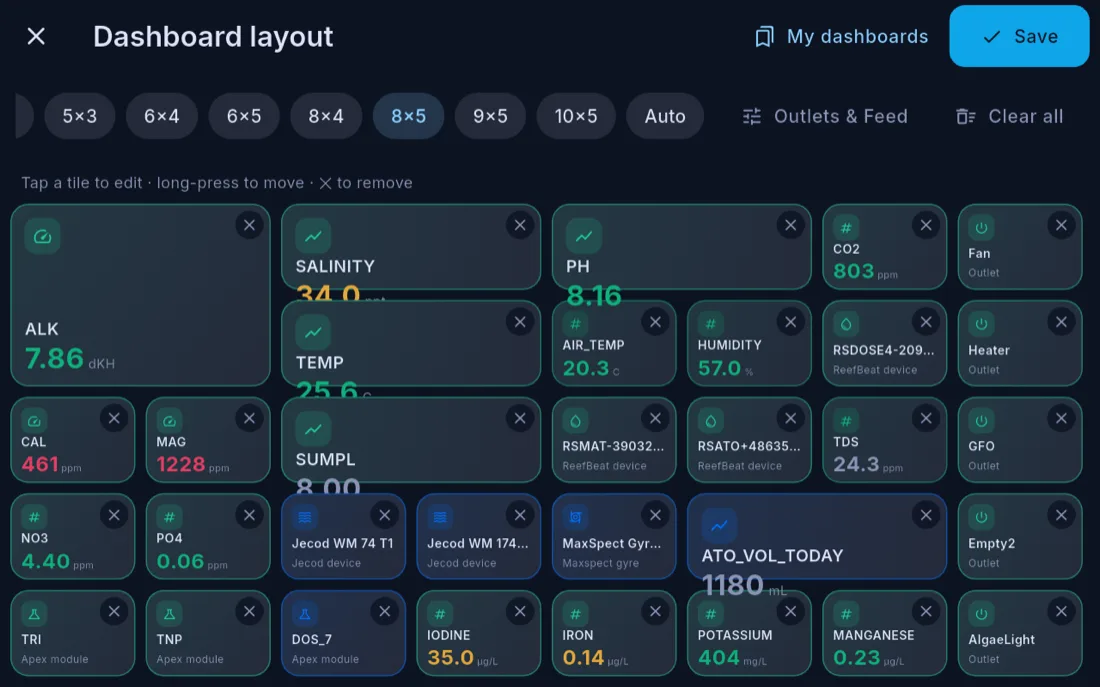
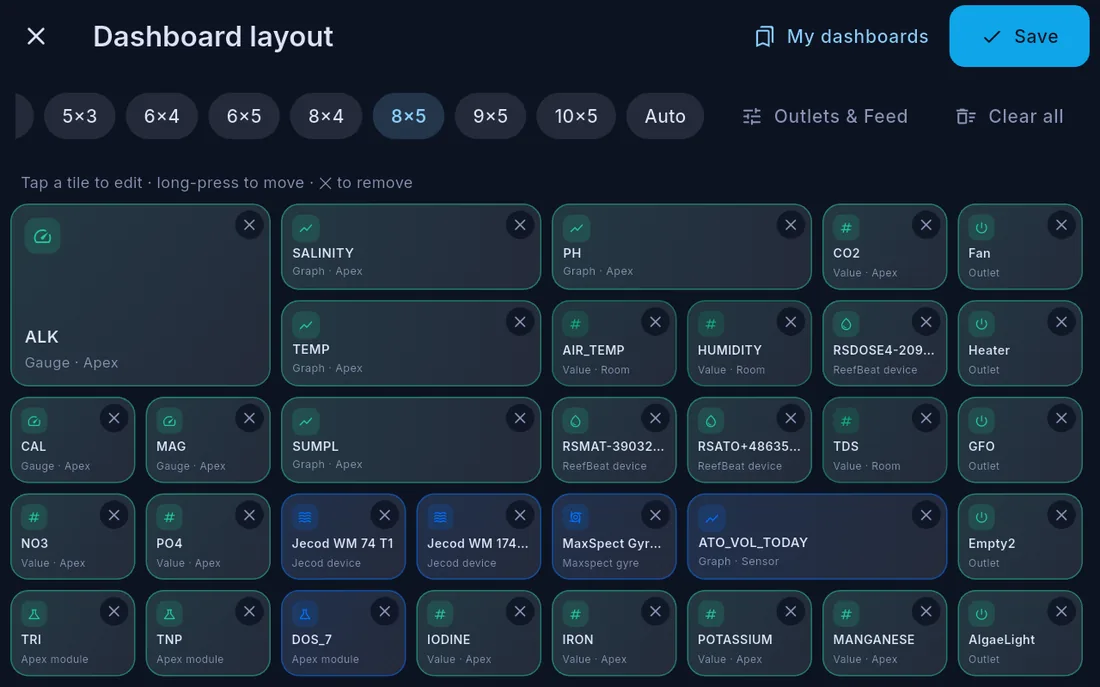
The editor screenshot showed a bug we had already fixed, and values we had already removed
`max-dashboard-editor.webp` was two changes stale at once. It still showed
the live readings that were removed from editor tiles on 2026-09-09 — the
caption beside it already said "Each shows its type and source, not a
reading" — and it showed the 2×1 overflow those tiles had, with SALINITY,
PH, TEMP and SUMPL painting their subtitle below the card.

Recaptured from the E10 on Cora Max 0.28.41+395, same tank, same 8×5
shape, same framing. Measured: ~230 stray text pixels beneath each of the
five 2×1 cards in the old shot, zero in the new one.

The stamp moves 0.28.38 → 0.28.41 on all 50 pages because it is derived
from the pubspec rather than typed — which is the whole reason it was made
derived.

50 pages · 30/30 self-tests · /help stays NOINDEX.

diff --git a/help/max-settings.html b/help/max-settings.html
@@ -187,7 +187,7 @@
 <p>Cora Max keeps itself up to date. New versions download in the background and install themselves, and you are told what changed. If a version has just arrived, the prompt appears on screen. There is nothing you need to do to stay current. See <strong><a href="/help/max-updates">Keeping Cora Max updated</a></strong>.</p>
 <aside class="cal cal-note"><p class="cal-t">Settings live in two places, on purpose</p><p>Anything about <em>this screen</em> — Wi-Fi, brightness, sound — is here. Anything about your <em>account</em> — tanks, devices, dosing products, plans — belongs to your account and is easier to change in Cora Mobile, where it applies to every screen at once.</p></aside>
       <nav class="pn" aria-label="Continue reading"><a class="pn-p" href="/help/max-voice"><span>Previous</span><b>Talking to Cora</b></a><a class="pn-n" href="/help/max-updates"><span>Next</span><b>Updates and recovery</b></a></nav>
-      <p class="stamp">Written for Cora Max 0.28.38 and Cora Mobile 0.5.55. Last checked 2026-09-09.</p>
+      <p class="stamp">Written for Cora Max 0.28.41 and Cora Mobile 0.5.55. Last checked 2026-09-09.</p>
       <p class="ask">Still stuck? Email <a href="mailto:cora@coraiq.tech">cora@coraiq.tech</a> and we'll help.</p>
     </article>
   </main>

diff --git a/help/mobile-metric-detail.html b/help/mobile-metric-detail.html
@@ -189,7 +189,7 @@
 <p>Enter what your test kit says. Hand-logged readings are first-class: they get their own source and timestamp, they appear on the chart, they feed Reef Buddy, and they are what Cora compares your equipment against.</p>
 <aside class="cal cal-note"><p class="cal-t">Cora checks entries that look implausible</p><p>If a value is far from what the tank has been running, you are asked to confirm it before it is saved. This catches a decimal point in the wrong place or a reading entered against the wrong parameter. Confirm it and the reading is stored normally.</p></aside>
       <nav class="pn" aria-label="Continue reading"><a class="pn-p" href="/help/mobile-widgets"><span>Previous</span><b>Widget reference</b></a><a class="pn-n" href="/help/mobile-devices"><span>Next</span><b>Adding, editing and removing devices</b></a></nav>
-      <p class="stamp">Written for Cora Max 0.28.38 and Cora Mobile 0.5.55. Last checked 2026-09-09.</p>
+      <p class="stamp">Written for Cora Max 0.28.41 and Cora Mobile 0.5.55. Last checked 2026-09-09.</p>
       <p class="ask">Still stuck? Email <a href="mailto:cora@coraiq.tech">cora@coraiq.tech</a> and we'll help.</p>
     </article>
   </main>

diff --git a/help/index.html b/help/index.html
@@ -182,7 +182,7 @@
 <h2 id="on-the-big-screen">On the big screen</h2>
 <ul><li><strong><a href="/help/max-reef-room">The Reef Room</a></strong> — every tank at once</li><li><strong><a href="/help/max-devices">Devices and device health</a></strong> — what Cora Max sees, and its own diagnostics</li><li><strong><a href="/help/max-intelligence">Reef Buddy and reports</a></strong> — the briefing and your lab work at the wall</li><li><strong><a href="/help/max-device-control">Controlling equipment from Cora Max</a></strong> — device pages at the wall</li><li><strong><a href="/help/max-activity">Activity on Cora Max</a></strong> — what was carried out, refused, or never confirmed</li><li><strong><a href="/help/max-updates">Updates and recovery</a></strong> — how the screen keeps itself current</li></ul>
       
-      <p class="stamp">Written for Cora Max 0.28.38 and Cora Mobile 0.5.55. Last checked 2026-09-09.</p>
+      <p class="stamp">Written for Cora Max 0.28.41 and Cora Mobile 0.5.55. Last checked 2026-09-09.</p>
       <p class="ask">Still stuck? Email <a href="mailto:cora@coraiq.tech">cora@coraiq.tech</a> and we'll help.</p>
     </article>
   </main>

diff --git a/help/mobile-devices.html b/help/mobile-devices.html
@@ -182,7 +182,7 @@
 <p>What you lose is the live link — and, where the device connected through a manufacturer account, the stored sign-in. Adding it back means signing in again.</p>
 <aside class="cal cal-tip"><p class="cal-t">Quieten a noisy device without removing it</p><p>If a device is working correctly but alerting too often, adjust its thresholds or notification settings — see <strong><a href="/help/mobile-alerts">Alerts and thresholds</a></strong>. That keeps the connection and the data while stopping the noise.</p></aside>
       <nav class="pn" aria-label="Continue reading"><a class="pn-p" href="/help/mobile-metric-detail"><span>Previous</span><b>Looking into a parameter</b></a><a class="pn-n" href="/help/mobile-connections"><span>Next</span><b>Connecting your equipment</b></a></nav>
-      <p class="stamp">Written for Cora Max 0.28.38 and Cora Mobile 0.5.55. Last checked 2026-09-09.</p>
+      <p class="stamp">Written for Cora Max 0.28.41 and Cora Mobile 0.5.55. Last checked 2026-09-09.</p>
       <p class="ask">Still stuck? Email <a href="mailto:cora@coraiq.tech">cora@coraiq.tech</a> and we'll help.</p>
     </article>
   </main>

diff --git a/help/mobile-sharing.html b/help/mobile-sharing.html
@@ -171,7 +171,7 @@
 <p><strong>Share</strong> hands the card to your phone's normal share sheet, so it can go anywhere your phone can send an image. Nothing leaves your account until you pick a destination.</p>
 <aside class="cal cal-note"><p class="cal-t">A snapshot is not access</p><p>Sharing a snapshot gives no one access to your account, your history or your equipment. To let someone look after the tank while you are away, use <a href="/help/mobile-vacation">Going away</a> instead, which produces a read-only page.</p></aside>
       <nav class="pn" aria-label="Continue reading"><a class="pn-p" href="/help/mobile-icp-health"><span>Previous</span><b>ICP and health reports</b></a><a class="pn-n" href="/help/mobile-vacation"><span>Next</span><b>Going away</b></a></nav>
-      <p class="stamp">Written for Cora Max 0.28.38 and Cora Mobile 0.5.55. Last checked 2026-09-09.</p>
+      <p class="stamp">Written for Cora Max 0.28.41 and Cora Mobile 0.5.55. Last checked 2026-09-09.</p>
       <p class="ask">Still stuck? Email <a href="mailto:cora@coraiq.tech">cora@coraiq.tech</a> and we'll help.</p>
     </article>
   </main>

diff --git a/help/mobile-alerts.html b/help/mobile-alerts.html
@@ -191,7 +191,7 @@
 <p>Open the rule in the <strong>Rules</strong> tab of the Alert Center and turn its <strong>enable switch</strong> off. The rule and its range are kept, so you can switch it back on without rebuilding it.</p>
 <aside class="cal cal-warning"><p class="cal-t">Quieten a parameter without deleting its range</p><p>Removing a threshold does not necessarily stop every assessment of that reading — default reference bands still colour the value and can still feed the briefing. Use the rule's enable switch.</p></aside>
       <nav class="pn" aria-label="Continue reading"><a class="pn-p" href="/help/mobile-consumables"><span>Previous</span><b>Consumables</b></a><a class="pn-n" href="/help/mobile-notifications"><span>Next</span><b>Notifications</b></a></nav>
-      <p class="stamp">Written for Cora Max 0.28.38 and Cora Mobile 0.5.55. Last checked 2026-09-09.</p>
+      <p class="stamp">Written for Cora Max 0.28.41 and Cora Mobile 0.5.55. Last checked 2026-09-09.</p>
       <p class="ask">Still stuck? Email <a href="mailto:cora@coraiq.tech">cora@coraiq.tech</a> and we'll help.</p>
     </article>
   </main>

diff --git a/help/max-intelligence.html b/help/max-intelligence.html
@@ -174,7 +174,7 @@
 <p><strong>A cycling journey also takes readings here</strong> — <strong>Log a test</strong> on the cycling screen records ammonia, nitrite and nitrate without going to your phone, which is the point when you are standing at the tank with a test kit.</p>
 <p>An <strong>issue</strong> journey is read-only at the wall: starting one, completing a step, recording an outcome, and resolving or dismissing it are done on the phone. See <a href="/help/mobile-journeys">Guided journeys</a>.</p>
       <nav class="pn" aria-label="Continue reading"><a class="pn-p" href="/help/max-records"><span>Previous</span><b>Journal, livestock and maintenance</b></a><a class="pn-n" href="/help/max-activity"><span>Next</span><b>Activity on Cora Max</b></a></nav>
-      <p class="stamp">Written for Cora Max 0.28.38 and Cora Mobile 0.5.55. Last checked 2026-09-09.</p>
+      <p class="stamp">Written for Cora Max 0.28.41 and Cora Mobile 0.5.55. Last checked 2026-09-09.</p>
       <p class="ask">Still stuck? Email <a href="mailto:cora@coraiq.tech">cora@coraiq.tech</a> and we'll help.</p>
     </article>
   </main>

diff --git a/help/mobile-data-export.html b/help/mobile-data-export.html
@@ -183,7 +183,7 @@
 <p>The full detail is in the <a href="/privacy-policy.html">privacy policy</a>. In short: your tank data, your account, and the sign-ins for any equipment you connected through a manufacturer's account.</p>
 <p>Removing a device forgets that sign-in. Deleting your account removes everything held against you — with the two exceptions above: the anonymised research copy, if you left that switch on, and your store subscription, which only the store can cancel.</p></aside>
       <nav class="pn" aria-label="Continue reading"><a class="pn-p" href="/help/mobile-multi-device"><span>Previous</span><b>More than one Cora device</b></a><a class="pn-n" href="/help/mobile-plans"><span>Next</span><b>Plans</b></a></nav>
-      <p class="stamp">Written for Cora Max 0.28.38 and Cora Mobile 0.5.55. Last checked 2026-09-09.</p>
+      <p class="stamp">Written for Cora Max 0.28.41 and Cora Mobile 0.5.55. Last checked 2026-09-09.</p>
       <p class="ask">Still stuck? Email <a href="mailto:cora@coraiq.tech">cora@coraiq.tech</a> and we'll help.</p>
     </article>
   </main>

diff --git a/help/mobile-schedules.html b/help/mobile-schedules.html
@@ -182,7 +182,7 @@
 <p>After saving, the device page shows the program the unit is actually running. If the two disagree, the write did not land — check the device is reachable and try again.</p>
 <aside class="cal cal-note"><p class="cal-t">Read the device before changing a gyre</p><p>A gyre's page shows when it last reported. If that reading is stale, refresh it before editing so the schedule is built on the unit's actual current state.</p></aside>
       <nav class="pn" aria-label="Continue reading"><a class="pn-p" href="/help/mobile-device-control"><span>Previous</span><b>Controlling your equipment</b></a><a class="pn-n" href="/help/mobile-probes"><span>Next</span><b>Probes</b></a></nav>
-      <p class="stamp">Written for Cora Max 0.28.38 and Cora Mobile 0.5.55. Last checked 2026-09-09.</p>
+      <p class="stamp">Written for Cora Max 0.28.41 and Cora Mobile 0.5.55. Last checked 2026-09-09.</p>
       <p class="ask">Still stuck? Email <a href="mailto:cora@coraiq.tech">cora@coraiq.tech</a> and we'll help.</p>
     </article>
   </main>

diff --git a/help/mobile-tour.html b/help/mobile-tour.html
@@ -181,7 +181,7 @@
 <p><strong>The bell</strong>, top right, is your notification history — every alert Cora has raised, newest first. The number on it is how many you have yet to read.</p>
 <p><strong>The Journal button</strong> floats over the bottom right of the Dashboard. Tap it to write down what you just did — a water change, a new coral, a dose you changed. See <strong><a href="/help/mobile-journal">The journal</a></strong>.</p>
       <nav class="pn" aria-label="Continue reading"><a class="pn-p" href="/help/mobile-tank-profile"><span>Previous</span><b>Your tank profile</b></a><a class="pn-n" href="/help/mobile-dashboard"><span>Next</span><b>Reading your dashboard</b></a></nav>
-      <p class="stamp">Written for Cora Max 0.28.38 and Cora Mobile 0.5.55. Last checked 2026-09-09.</p>
+      <p class="stamp">Written for Cora Max 0.28.41 and Cora Mobile 0.5.55. Last checked 2026-09-09.</p>
       <p class="ask">Still stuck? Email <a href="mailto:cora@coraiq.tech">cora@coraiq.tech</a> and we'll help.</p>
     </article>
   </main>

diff --git a/help/mobile-activity.html b/help/mobile-activity.html
@@ -175,7 +175,7 @@
 <p>Use activity when you are asking <em>"what did something do?"</em> and the timeline when you are asking <em>"what was happening around this date?"</em></p>
 <aside class="cal cal-note"><p class="cal-t">The timeline and the journal are complementary</p><p>The timeline holds what Cora recorded; the <a href="/help/mobile-journal">journal</a> holds what you did. Read together they establish cause and effect around a given date.</p></aside>
       <nav class="pn" aria-label="Continue reading"><a class="pn-p" href="/help/mobile-journal"><span>Previous</span><b>The journal</b></a><a class="pn-n" href="/help/mobile-assistant"><span>Next</span><b>Asking Cora</b></a></nav>
-      <p class="stamp">Written for Cora Max 0.28.38 and Cora Mobile 0.5.55. Last checked 2026-09-09.</p>
+      <p class="stamp">Written for Cora Max 0.28.41 and Cora Mobile 0.5.55. Last checked 2026-09-09.</p>
       <p class="ask">Still stuck? Email <a href="mailto:cora@coraiq.tech">cora@coraiq.tech</a> and we'll help.</p>
     </article>
   </main>

diff --git a/help/mobile-reef-buddy.html b/help/mobile-reef-buddy.html
@@ -186,7 +186,7 @@
 <p>Feedback shapes what leads later briefings, and suppression is <strong>time-limited</strong> — an insight you dismiss comes back if the condition persists.</p>
 <aside class="cal cal-note"><p class="cal-t">Serious findings are never suppressed</p><p>Only lower-severity insights can be quietened by feedback. Warning and critical insights keep appearing regardless of how you have responded to them before.</p></aside>
       <nav class="pn" aria-label="Continue reading"><a class="pn-p" href="/help/mobile-assistant"><span>Previous</span><b>Asking Cora</b></a><a class="pn-n" href="/help/mobile-journeys"><span>Next</span><b>Guided journeys</b></a></nav>
-      <p class="stamp">Written for Cora Max 0.28.38 and Cora Mobile 0.5.55. Last checked 2026-09-09.</p>
+      <p class="stamp">Written for Cora Max 0.28.41 and Cora Mobile 0.5.55. Last checked 2026-09-09.</p>
       <p class="ask">Still stuck? Email <a href="mailto:cora@coraiq.tech">cora@coraiq.tech</a> and we'll help.</p>
     </article>
   </main>
